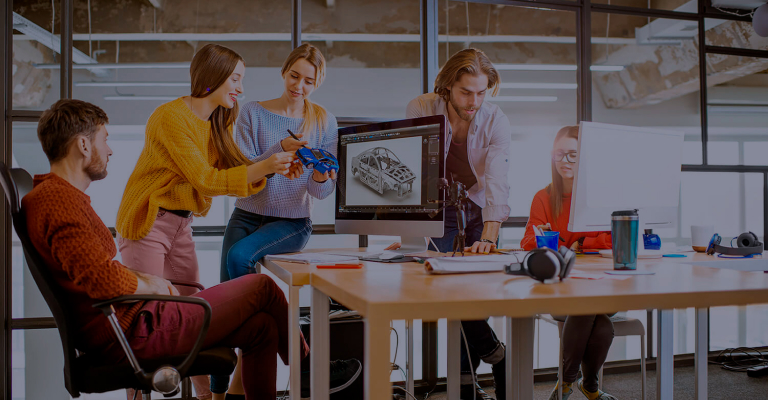
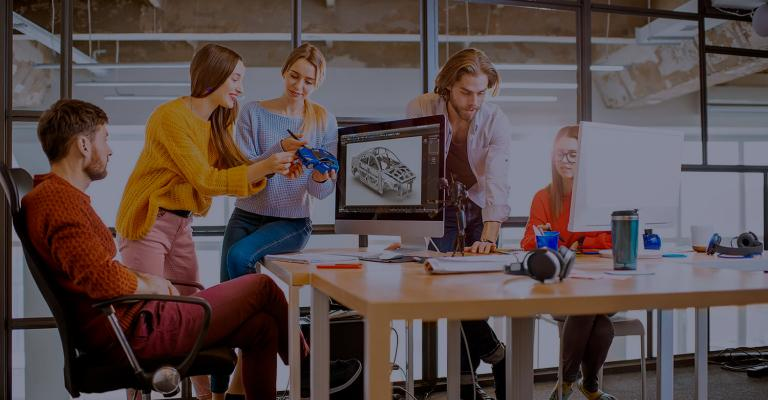
Добавляет изображения секции Команда

diff --git a/css/main.min.css b/css/main.min.css
@@ -1,2 +1,2 @@
-body{font-family:'Roboto', sans-serif;color:#757575}ul{margin:0;padding:0;list-style:none}h1,h2,h3,h4,h5,h6,p{margin:0}a{display:block}img{display:block;max-width:100%;height:auto}.container{margin:0 auto;padding:0 15px}@media screen and (min-width: 480px){.container{width:480px}}@media screen and (min-width: 768px){.container{width:768px}}@media screen and (min-width: 1200px){.container{width:1200px}}.section{padding:60px 0}@media screen and (min-width: 1200px){.section{padding:94px 0}}.visually-hidden{position:absolute;width:1px;height:1px;margin:-1px;padding:0;overflow:hidden;border:0;clip:rect(0 0 0 0)}.main-nav__wrapper,.main-nav__button,.features-list__icon,.social-list__link,.clients-list__link,.footer-form__btn,.close-btn,.modal-form__accept,.modal-form__check-icon{display:flex;align-items:center}.page-header{border-bottom:1px solid #ececec;background-color:#ffffff}.main-nav__wrapper{justify-content:space-between}.main-nav__button{padding:0;border:none;background-color:transparent;cursor:pointer}.nav-list{display:none}.logo{padding:16px 0;color:#000000;font-family:'Raleway', sans-serif;font-size:24px;line-height:1.17;letter-spacing:.03em;font-weight:700;text-decoration:none}.logo__label{color:#2196f3}.contacts{display:none}.hero{margin:0 auto;padding:118px 0;background-color:#2f303a;background-image:linear-gradient(rgba(47,48,58,0.4), rgba(47,48,58,0.4)),url("/images/hero-bg.jpg");background-size:cover;background-repeat:no-repeat;background-position:center;text-align:center}@media screen and (min-width: 1200px){.hero{max-width:1600px;min-height:600px;padding:200px 0}}@media screen and (min-width: 480px){.hero__container{padding:0 60px}}@media screen and (min-width: 768px){.hero__container{width:360px;padding:0}}@media screen and (min-width: 1200px){.hero__container{width:696px}}.hero__title{margin-bottom:30px;color:#ffffff;font-size:26px;line-height:1.62;letter-spacing:.06em;font-weight:900;text-transform:uppercase}@media screen and (min-width: 1200px){.hero__title{font-size:44px;line-height:1.36}}.btn{min-width:200px;min-height:50px;padding:10px;border-radius:4px;border:none;background-color:#2196f3;color:#ffffff;font-size:16px;line-height:1.87;letter-spacing:.06em;font-weight:700;cursor:pointer;box-shadow:0px 4px 4px rgba(0,0,0,0.15);transition:background-color 250ms cubic-bezier(0.4, 0, 0.2, 1)}.btn:hover,.btn:focus{background-color:#188ce8}@media screen and (min-width: 768px){.features-list{display:flex;flex-wrap:wrap;margin:-15px}}@media screen and (min-width: 1200px){.features-list{flex-wrap:nowrap}}@media screen and (max-width: 767px){.features-list__item:not(:last-child){margin-bottom:30px}}@media screen and (min-width: 768px){.features-list__item{flex-basis:calc((100% - 60px) / 2);margin:15px}}@media screen and (min-width: 1200px){.features-list__item{flex-basis:calc((100% - 90px) / 4)}}.features-list__icon{justify-content:center;height:120px;margin-bottom:30px;border-radius:4px;background-color:#f5f4fa}.features-list__label{margin-bottom:10px;color:#212121;font-size:14px;line-height:1.14;letter-spacing:.03em;font-weight:700;text-align:center;text-transform:uppercase}@media screen and (min-width: 768px){.features-list__label{text-align:left}}.features-list__text{font-size:14px;line-height:1.71;letter-spacing:.03em;font-weight:400}.about{padding-top:0}@media screen and (max-width: 1199px){.about{display:none}}.about__title{margin-bottom:50px;color:#212121;font-size:36px;line-height:1.17;letter-spacing:.03em;font-weight:700;text-align:center}.about-list{display:flex;justify-content:space-between}.about-list__item{position:relative}.about-list__image{display:block}.about-list__desc{position:absolute;bottom:0;width:100%;padding:27px 0;color:#ffffff;background-color:rgba(47,48,58,0.8);font-size:14px;line-height:1.14;letter-spacing:.03em;font-weight:700;text-align:center;text-transform:uppercase}.team{background-color:#f5f4fa;text-align:center}.team__title,.clients__title{margin-bottom:30px;color:#212121;font-size:28px;line-height:1.18;letter-spacing:.03em;font-weight:700}@media screen and (min-width: 1200px){.team__title,.clients__title{margin-bottom:50px;font-size:36px;line-height:1.17}}@media screen and (min-width: 768px){.team-list{display:flex;flex-wrap:wrap;margin:-15px}}@media screen and (min-width: 1200px){.team-list{flex-wrap:nowrap}}.team-list__item{margin-bottom:30px;padding-bottom:24px;border-radius:0 0 4px 4px;box-shadow:0px 1px 3px rgba(0,0,0,0.12),0px 1px 1px rgba(0,0,0,0.14),0px 2px 1px rgba(0,0,0,0.2);background-color:#ffffff}@media screen and (max-width: 767px){.team-list__item:last-child{margin-bottom:0}}@media screen and (min-width: 768px){.team-list__item{flex-basis:calc((100% - 60px) / 2);margin:15px}}@media screen and (min-width: 1200px){.team-list__item{flex-basis:calc((100% - 90px) / 4);padding-bottom:30px}}.team-list__photo{margin-bottom:30px;width:100%}.team-list__name{margin-bottom:10px;color:#212121;font-size:16px;line-height:1.19;letter-spacing:.03em;font-weight:500}.team-list__post{margin-bottom:16px;font-size:16px;line-height:1.19;letter-spacing:.03em;font-weight:400}.social-list{display:flex;justify-content:center}.social-list__item{width:44px;height:44px}.social-list__item+.social-list__item{margin-left:10px}.social-list__link{justify-content:center;width:100%;height:100%;border-radius:50%;fill:#afb1b8;transition:background-color 250ms cubic-bezier(0.4, 0, 0.2, 1)}.social-list__link:hover,.social-list__link:focus{background-color:#2196f3}.social-list__link--white{background-color:rgba(255,255,255,0.1);fill:#ffffff}.social-list__icon{transition:fill 250ms cubic-bezier(0.4, 0, 0.2, 1)}.social-list__link:hover .social-list__icon,.social-list__link:focus .social-list__icon{fill:#ffffff}.clients{text-align:center}.clients-list{display:flex;flex-wrap:wrap;margin:-15px}@media screen and (min-width: 1200px){.clients-list{flex-wrap:nowrap}}.clients-list__item{flex-basis:calc((100% - 60px) / 2);margin:15px}@media screen and (min-width: 768px){.clients-list__item{flex-basis:calc((100% - 90px) / 3)}}.clients-list__link{justify-content:center;padding:15px 0;border:1px solid #afb1b8;border-radius:4px;transition:border-color 250ms cubic-bezier(0.4, 0, 0.2, 1)}.clients-list__link:hover,.clients-list__link:focus{border-color:#2196f3}.clients-list__icon{fill:#afb1b8;transition:fill 250ms cubic-bezier(0.4, 0, 0.2, 1)}.clients-list__link:hover .clients-list__icon,.clients-list__link:focus .clients-list__icon{fill:#2196f3}.page-footer{padding:60px 0;background-color:#2f303a;text-align:center}.page-footer__left{margin-bottom:60px}.page-footer__logo{margin-bottom:20px;color:#ffffff}.footer-contacts__item:not(:last-child){margin-bottom:8px}.footer-contacts__link{color:rgba(255,255,255,0.6);font-style:normal;font-size:14px;line-height:1.71;letter-spacing:.03em;font-weight:400;text-decoration:none;transition:color 250ms cubic-bezier(0.4, 0, 0.2, 1)}.footer-contacts__link--white{color:#ffffff}.footer-contacts__link:hover,.footer-contacts__link:focus{color:#2196f3}.footer-social{margin-bottom:60px}.footer-social__text{display:inline-block;margin-bottom:20px;color:#ffffff;font-size:14px;line-height:1.14;letter-spacing:.03em;font-weight:700;text-transform:uppercase}.footer-form__label{display:inline-block;margin-bottom:20px;color:#ffffff;font-size:14px;line-height:1.14;letter-spacing:.03em;font-weight:700;text-transform:uppercase}.footer-form__input{width:100%;height:50px;margin-bottom:20px;padding:15px;border:1px solid rgba(255,255,255,0.3);border-radius:4px;background-color:transparent;color:#ffffff}.footer-form__input::placeholder{color:rgba(255,255,255,0.6);font-size:16px;line-height:1.25;letter-spacing:.03em;font-weight:400}.footer-form__btn{justify-content:center;min-width:200px;min-height:50px;margin:0 auto;padding:10px;border:none;border-radius:4px;color:#ffffff;background-color:#2196f3;font-size:16px;line-height:1.87;letter-spacing:.06em;font-weight:700;cursor:pointer}.footer-form__icon{margin-left:10px;fill:#ffffff}.filter-list{display:flex;flex-wrap:wrap;margin-bottom:40px}.filter-list__item:not(:last-child){margin-right:8px}.filter-list__item:nth-child(-n+3){margin-bottom:15px}.filter-list__btn{padding:6px 22px;border-radius:4px;border:none;color:#212121;background-color:#f5f4fa;font-family:inherit;font-size:16px;line-height:1.62;letter-spacing:.03em;font-weight:500;cursor:pointer;transition:color 250ms cubic-bezier(0.4, 0, 0.2, 1),background-color 250ms cubic-bezier(0.4, 0, 0.2, 1),box-shadow 250ms cubic-bezier(0.4, 0, 0.2, 1)}.filter-list__btn:hover,.filter-list__btn:focus{box-shadow:0px 3px 1px rgba(0,0,0,0.1),0px 1px 2px rgba(0,0,0,0.08),0px 2px 2px rgba(0,0,0,0.12);color:#ffffff;background-color:#2196f3}.portfolio-list__item:not(:last-child){margin-bottom:30px}.portfolio-list__link{color:inherit;text-decoration:none;transition:box-shadow 250ms cubic-bezier(0.4, 0, 0.2, 1)}.portfolio-list__link:hover,.portfolio-list__link:focus{box-shadow:0px 1px 1px rgba(0,0,0,0.12),0px 4px 4px rgba(0,0,0,0.06),1px 4px 6px rgba(0,0,0,0.16)}.portfolio-list__overlay{position:relative;max-width:450px;max-height:294px;overflow:hidden}.portfolio-list__image{width:100%;height:100%;object-fit:cover}.portfolio-list__text{position:absolute;top:100%;padding:77px 24px;color:#ffffff;background-color:rgba(33,150,243,0.9);font-size:18px;line-height:1.56;letter-spacing:.03em;font-weight:400;transform:translateY(0);transition:transform 250ms cubic-bezier(0.4, 0, 0.2, 1)}.portfolio-list__link:hover .portfolio-list__text,.portfolio-list__link:focus .portfolio-list__text{transform:translateY(-100%)}.portfolio-list__desc{padding:20px 24px;border:1px solid #eeeeee;border-top:none}.portfolio-list__title{margin-bottom:4px;color:#212121;font-size:18px;line-height:2;letter-spacing:.06em;font-weight:700}.portfolio-list__subtitle{font-size:16px;line-height:1.87;letter-spacing:.03em;font-weight:400}.backdrop{position:fixed;top:0;width:100%;height:100%;background-color:rgba(0,0,0,0.2);transition:opacity 250ms cubic-bezier(0.4, 0, 0.2, 1),visibility 250ms cubic-bezier(0.4, 0, 0.2, 1)}.backdrop.is-hidden{visibility:hidden;opacity:0;pointer-events:none}.backdrop.is-hidden .modal{transform:translate(-50%, -50%) scale(2)}.modal{position:absolute;top:50%;left:50%;width:528px;min-height:581px;padding:40px;transform:translate(-50%, -50%) scale(1);transition:transform 250ms cubic-bezier(0.4, 0, 0.2, 1);background-color:#ffffff}.close-btn{position:absolute;top:8px;right:8px;justify-content:center;width:30px;height:30px;border:1px solid rgba(0,0,0,0.1);border-radius:50%;background-color:transparent;cursor:pointer}.close-btn__icon{transition:fill 250ms cubic-bezier(0.4, 0, 0.2, 1)}.close-btn:hover .close-btn__icon,.close-btn:focus .close-btn__icon{fill:#2196f3}.modal-form{text-align:center}.modal-form__title{margin-bottom:12px;color:#212121;font-size:20px;line-height:1.15;letter-spacing:.03em;font-weight:700}.modal-form__label{display:block;margin-bottom:4px;font-size:12px;line-height:1.17;letter-spacing:.01em;font-weight:400;text-align:left}.modal-form__wrapper{position:relative;margin-bottom:10px}.modal-form__input{width:100%;height:40px;padding-left:42px;padding-right:20px;border:1px solid rgba(33,33,33,0.2);border-radius:4px;outline:none;transition:border-color 250ms cubic-bezier(0.4, 0, 0.2, 1)}.modal-form__input:focus{border-color:#2196f3}.modal-form__input:focus+.modal-form__icon{fill:#2196f3}.modal-form__icon{position:absolute;top:50%;left:12px;transform:translateY(-50%);transition:fill 250ms cubic-bezier(0.4, 0, 0.2, 1);fill:#212121}.modal-form__comment{width:100%;height:120px;padding:12px 16px;margin-bottom:20px;border:1px solid rgba(33,33,33,0.2);border-radius:4px;outline:none;resize:none;transition:border-color 250ms cubic-bezier(0.4, 0, 0.2, 1)}.modal-form__comment::placeholder{color:rgba(117,117,117,0.5);font-size:12px;line-height:1.17;letter-spacing:0.01em}.modal-form__comment:focus{border-color:#2196f3}.modal-form__checkbox:focus+.modal-form__accept .modal-form__check-icon{outline:1px solid #212121}.modal-form__checkbox:checked+.modal-form__accept .modal-form__check-icon{border:none;background-color:#2196f3}.modal-form__accept{justify-content:center;font-size:14px;line-height:1.71;letter-spacing:.03em;font-weight:400;cursor:pointer}.modal-form__check-icon{justify-content:center;width:16px;height:15px;margin-right:7px;border:2px solid #212121;border-radius:2px;transition:background-color 250ms cubic-bezier(0.4, 0, 0.2, 1)}.modal-form__link{margin-left:3px;color:#2196f3;text-decoration:underline}.modal-form__btn{margin-top:30px;box-shadow:0px 4px 4px rgba(0,0,0,0.15);transition:background-color 250ms cubic-bezier(0.4, 0, 0.2, 1)}.modal-form__btn:hover,.modal-form__btn:focus{background-color:#188ce8}
+body{font-family:'Roboto', sans-serif;color:#757575}ul{margin:0;padding:0;list-style:none}h1,h2,h3,h4,h5,h6,p{margin:0}a{display:block}img{display:block;max-width:100%;height:auto}.container{margin:0 auto;padding:0 15px}@media screen and (min-width: 480px){.container{width:480px}}@media screen and (min-width: 768px){.container{width:768px}}@media screen and (min-width: 1200px){.container{width:1200px}}.section{padding:60px 0}@media screen and (min-width: 1200px){.section{padding:94px 0}}.visually-hidden{position:absolute;width:1px;height:1px;margin:-1px;padding:0;overflow:hidden;border:0;clip:rect(0 0 0 0)}.main-nav__wrapper,.main-nav__button,.features-list__icon,.social-list__link,.clients-list__link,.footer-form__btn,.close-btn,.modal-form__accept,.modal-form__check-icon{display:flex;align-items:center}.page-header{border-bottom:1px solid #ececec;background-color:#ffffff}.main-nav__wrapper{justify-content:space-between}.main-nav__button{padding:0;border:none;background-color:transparent;cursor:pointer}.nav-list{display:none}.logo{padding:16px 0;color:#000000;font-family:'Raleway', sans-serif;font-size:24px;line-height:1.17;letter-spacing:.03em;font-weight:700;text-decoration:none}.logo__label{color:#2196f3}.contacts{display:none}.hero{padding:118px 0;background-color:#2f303a;background-image:linear-gradient(rgba(47,48,58,0.4), rgba(47,48,58,0.4)),url("/images/hero-bg-480.jpg");background-size:cover;background-position:center;text-align:center}@media screen and (min-device-pixel-ratio: 2), screen and (min-resolution: 192dpi), screen and (min-resolution: 2dppx){.hero{background-image:linear-gradient(rgba(47,48,58,0.4), rgba(47,48,58,0.4)),url("/images/hero-bg-480@2x.jpg")}}@media screen and (min-width: 481px){.hero{background-image:linear-gradient(rgba(47,48,58,0.4), rgba(47,48,58,0.4)),url("/images/hero-bg-768.jpg")}}@media screen and (min-width: 481px) and (min-device-pixel-ratio: 2), screen and (min-width: 481px) and (min-resolution: 192dpi), screen and (min-width: 481px) and (min-resolution: 2dppx){.hero{background-image:linear-gradient(rgba(47,48,58,0.4), rgba(47,48,58,0.4)),url("/images/hero-bg-768@2x.jpg")}}@media screen and (min-width: 769px){.hero{background-image:linear-gradient(rgba(47,48,58,0.4), rgba(47,48,58,0.4)),url("/images/hero-bg-1200.jpg")}}@media screen and (min-width: 769px) and (min-device-pixel-ratio: 2), screen and (min-width: 769px) and (min-resolution: 192dpi), screen and (min-width: 769px) and (min-resolution: 2dppx){.hero{background-image:linear-gradient(rgba(47,48,58,0.4), rgba(47,48,58,0.4)),url("/images/hero-bg-1200@2x.jpg")}}@media screen and (min-width: 1200px){.hero{max-width:1600px;margin:0 auto;padding:200px 0}}@media screen and (min-width: 480px){.hero__container{padding:0 60px}}@media screen and (min-width: 768px){.hero__container{width:360px;padding:0}}@media screen and (min-width: 1200px){.hero__container{width:696px}}.hero__title{margin-bottom:30px;color:#ffffff;font-size:26px;line-height:1.62;letter-spacing:.06em;font-weight:900;text-transform:uppercase}@media screen and (min-width: 1200px){.hero__title{font-size:44px;line-height:1.36}}.btn{min-width:200px;min-height:50px;padding:10px;border-radius:4px;border:none;background-color:#2196f3;color:#ffffff;font-size:16px;line-height:1.87;letter-spacing:.06em;font-weight:700;cursor:pointer;box-shadow:0px 4px 4px rgba(0,0,0,0.15);transition:background-color 250ms cubic-bezier(0.4, 0, 0.2, 1)}.btn:hover,.btn:focus{background-color:#188ce8}@media screen and (min-width: 768px){.features-list{display:flex;flex-wrap:wrap;margin:-15px}}@media screen and (min-width: 1200px){.features-list{flex-wrap:nowrap}}@media screen and (max-width: 767px){.features-list__item:not(:last-child){margin-bottom:30px}}@media screen and (min-width: 768px){.features-list__item{flex-basis:calc((100% - 60px) / 2);margin:15px}}@media screen and (min-width: 1200px){.features-list__item{flex-basis:calc((100% - 90px) / 4)}}.features-list__icon{justify-content:center;height:120px;margin-bottom:30px;border-radius:4px;background-color:#f5f4fa}.features-list__label{margin-bottom:10px;color:#212121;font-size:14px;line-height:1.14;letter-spacing:.03em;font-weight:700;text-align:center;text-transform:uppercase}@media screen and (min-width: 768px){.features-list__label{text-align:left}}.features-list__text{font-size:14px;line-height:1.71;letter-spacing:.03em;font-weight:400}.about{padding-top:0}@media screen and (max-width: 1199px){.about{display:none}}.about__title{margin-bottom:50px;color:#212121;font-size:36px;line-height:1.17;letter-spacing:.03em;font-weight:700;text-align:center}.about-list{display:flex;justify-content:space-between}.about-list__item{position:relative}.about-list__image{display:block}.about-list__desc{position:absolute;bottom:0;width:100%;padding:27px 0;color:#ffffff;background-color:rgba(47,48,58,0.8);font-size:14px;line-height:1.14;letter-spacing:.03em;font-weight:700;text-align:center;text-transform:uppercase}.team{background-color:#f5f4fa;text-align:center}.team__title,.clients__title{margin-bottom:30px;color:#212121;font-size:28px;line-height:1.18;letter-spacing:.03em;font-weight:700}@media screen and (min-width: 1200px){.team__title,.clients__title{margin-bottom:50px;font-size:36px;line-height:1.17}}@media screen and (min-width: 768px){.team-list{display:flex;flex-wrap:wrap;margin:-15px}}@media screen and (min-width: 1200px){.team-list{flex-wrap:nowrap}}.team-list__item{margin-bottom:30px;padding-bottom:24px;border-radius:0 0 4px 4px;box-shadow:0px 1px 3px rgba(0,0,0,0.12),0px 1px 1px rgba(0,0,0,0.14),0px 2px 1px rgba(0,0,0,0.2);background-color:#ffffff}@media screen and (max-width: 767px){.team-list__item:last-child{margin-bottom:0}}@media screen and (min-width: 768px){.team-list__item{flex-basis:calc((100% - 60px) / 2);margin:15px}}@media screen and (min-width: 1200px){.team-list__item{flex-basis:calc((100% - 90px) / 4);padding-bottom:30px}}.team-list__photo{margin-bottom:30px}.team-list__name{margin-bottom:10px;color:#212121;font-size:16px;line-height:1.19;letter-spacing:.03em;font-weight:500}.team-list__post{margin-bottom:16px;font-size:16px;line-height:1.19;letter-spacing:.03em;font-weight:400}.social-list{display:flex;justify-content:center}.social-list__item{width:44px;height:44px}.social-list__item+.social-list__item{margin-left:10px}.social-list__link{justify-content:center;width:100%;height:100%;border-radius:50%;fill:#afb1b8;transition:background-color 250ms cubic-bezier(0.4, 0, 0.2, 1)}.social-list__link:hover,.social-list__link:focus{background-color:#2196f3}.social-list__link--white{background-color:rgba(255,255,255,0.1);fill:#ffffff}.social-list__icon{transition:fill 250ms cubic-bezier(0.4, 0, 0.2, 1)}.social-list__link:hover .social-list__icon,.social-list__link:focus .social-list__icon{fill:#ffffff}.clients{text-align:center}.clients-list{display:flex;flex-wrap:wrap;margin:-15px}@media screen and (min-width: 1200px){.clients-list{flex-wrap:nowrap}}.clients-list__item{flex-basis:calc((100% - 60px) / 2);margin:15px}@media screen and (min-width: 768px){.clients-list__item{flex-basis:calc((100% - 90px) / 3)}}.clients-list__link{justify-content:center;padding:15px 0;border:1px solid #afb1b8;border-radius:4px;transition:border-color 250ms cubic-bezier(0.4, 0, 0.2, 1)}.clients-list__link:hover,.clients-list__link:focus{border-color:#2196f3}.clients-list__icon{fill:#afb1b8;transition:fill 250ms cubic-bezier(0.4, 0, 0.2, 1)}.clients-list__link:hover .clients-list__icon,.clients-list__link:focus .clients-list__icon{fill:#2196f3}.page-footer{padding:60px 0;background-color:#2f303a;text-align:center}.page-footer__left{margin-bottom:60px}.page-footer__logo{margin-bottom:20px;color:#ffffff}.footer-contacts__item:not(:last-child){margin-bottom:8px}.footer-contacts__link{color:rgba(255,255,255,0.6);font-style:normal;font-size:14px;line-height:1.71;letter-spacing:.03em;font-weight:400;text-decoration:none;transition:color 250ms cubic-bezier(0.4, 0, 0.2, 1)}.footer-contacts__link--white{color:#ffffff}.footer-contacts__link:hover,.footer-contacts__link:focus{color:#2196f3}.footer-social{margin-bottom:60px}.footer-social__text{display:inline-block;margin-bottom:20px;color:#ffffff;font-size:14px;line-height:1.14;letter-spacing:.03em;font-weight:700;text-transform:uppercase}.footer-form__label{display:inline-block;margin-bottom:20px;color:#ffffff;font-size:14px;line-height:1.14;letter-spacing:.03em;font-weight:700;text-transform:uppercase}.footer-form__input{width:100%;height:50px;margin-bottom:20px;padding:15px;border:1px solid rgba(255,255,255,0.3);border-radius:4px;background-color:transparent;color:#ffffff}.footer-form__input::placeholder{color:rgba(255,255,255,0.6);font-size:16px;line-height:1.25;letter-spacing:.03em;font-weight:400}.footer-form__btn{justify-content:center;min-width:200px;min-height:50px;margin:0 auto;padding:10px;border:none;border-radius:4px;color:#ffffff;background-color:#2196f3;font-size:16px;line-height:1.87;letter-spacing:.06em;font-weight:700;cursor:pointer}.footer-form__icon{margin-left:10px;fill:#ffffff}.filter-list{display:flex;flex-wrap:wrap;margin-bottom:40px}.filter-list__item:not(:last-child){margin-right:8px}.filter-list__item:nth-child(-n+3){margin-bottom:15px}.filter-list__btn{padding:6px 22px;border-radius:4px;border:none;color:#212121;background-color:#f5f4fa;font-family:inherit;font-size:16px;line-height:1.62;letter-spacing:.03em;font-weight:500;cursor:pointer;transition:color 250ms cubic-bezier(0.4, 0, 0.2, 1),background-color 250ms cubic-bezier(0.4, 0, 0.2, 1),box-shadow 250ms cubic-bezier(0.4, 0, 0.2, 1)}.filter-list__btn:hover,.filter-list__btn:focus{box-shadow:0px 3px 1px rgba(0,0,0,0.1),0px 1px 2px rgba(0,0,0,0.08),0px 2px 2px rgba(0,0,0,0.12);color:#ffffff;background-color:#2196f3}.portfolio-list__item:not(:last-child){margin-bottom:30px}.portfolio-list__link{color:inherit;text-decoration:none;transition:box-shadow 250ms cubic-bezier(0.4, 0, 0.2, 1)}.portfolio-list__link:hover,.portfolio-list__link:focus{box-shadow:0px 1px 1px rgba(0,0,0,0.12),0px 4px 4px rgba(0,0,0,0.06),1px 4px 6px rgba(0,0,0,0.16)}.portfolio-list__overlay{position:relative;max-width:450px;max-height:294px;overflow:hidden}.portfolio-list__image{width:100%;height:100%;object-fit:cover}.portfolio-list__text{position:absolute;top:100%;padding:77px 24px;color:#ffffff;background-color:rgba(33,150,243,0.9);font-size:18px;line-height:1.56;letter-spacing:.03em;font-weight:400;transform:translateY(0);transition:transform 250ms cubic-bezier(0.4, 0, 0.2, 1)}.portfolio-list__link:hover .portfolio-list__text,.portfolio-list__link:focus .portfolio-list__text{transform:translateY(-100%)}.portfolio-list__desc{padding:20px 24px;border:1px solid #eeeeee;border-top:none}.portfolio-list__title{margin-bottom:4px;color:#212121;font-size:18px;line-height:2;letter-spacing:.06em;font-weight:700}.portfolio-list__subtitle{font-size:16px;line-height:1.87;letter-spacing:.03em;font-weight:400}.backdrop{position:fixed;top:0;width:100%;height:100%;background-color:rgba(0,0,0,0.2);transition:opacity 250ms cubic-bezier(0.4, 0, 0.2, 1),visibility 250ms cubic-bezier(0.4, 0, 0.2, 1)}.backdrop.is-hidden{visibility:hidden;opacity:0;pointer-events:none}.backdrop.is-hidden .modal{transform:translate(-50%, -50%) scale(2)}.modal{position:absolute;top:50%;left:50%;width:528px;min-height:581px;padding:40px;transform:translate(-50%, -50%) scale(1);transition:transform 250ms cubic-bezier(0.4, 0, 0.2, 1);background-color:#ffffff}.close-btn{position:absolute;top:8px;right:8px;justify-content:center;width:30px;height:30px;border:1px solid rgba(0,0,0,0.1);border-radius:50%;background-color:transparent;cursor:pointer}.close-btn__icon{transition:fill 250ms cubic-bezier(0.4, 0, 0.2, 1)}.close-btn:hover .close-btn__icon,.close-btn:focus .close-btn__icon{fill:#2196f3}.modal-form{text-align:center}.modal-form__title{margin-bottom:12px;color:#212121;font-size:20px;line-height:1.15;letter-spacing:.03em;font-weight:700}.modal-form__label{display:block;margin-bottom:4px;font-size:12px;line-height:1.17;letter-spacing:.01em;font-weight:400;text-align:left}.modal-form__wrapper{position:relative;margin-bottom:10px}.modal-form__input{width:100%;height:40px;padding-left:42px;padding-right:20px;border:1px solid rgba(33,33,33,0.2);border-radius:4px;outline:none;transition:border-color 250ms cubic-bezier(0.4, 0, 0.2, 1)}.modal-form__input:focus{border-color:#2196f3}.modal-form__input:focus+.modal-form__icon{fill:#2196f3}.modal-form__icon{position:absolute;top:50%;left:12px;transform:translateY(-50%);transition:fill 250ms cubic-bezier(0.4, 0, 0.2, 1);fill:#212121}.modal-form__comment{width:100%;height:120px;padding:12px 16px;margin-bottom:20px;border:1px solid rgba(33,33,33,0.2);border-radius:4px;outline:none;resize:none;transition:border-color 250ms cubic-bezier(0.4, 0, 0.2, 1)}.modal-form__comment::placeholder{color:rgba(117,117,117,0.5);font-size:12px;line-height:1.17;letter-spacing:0.01em}.modal-form__comment:focus{border-color:#2196f3}.modal-form__checkbox:focus+.modal-form__accept .modal-form__check-icon{outline:1px solid #212121}.modal-form__checkbox:checked+.modal-form__accept .modal-form__check-icon{border:none;background-color:#2196f3}.modal-form__accept{justify-content:center;font-size:14px;line-height:1.71;letter-spacing:.03em;font-weight:400;cursor:pointer}.modal-form__check-icon{justify-content:center;width:16px;height:15px;margin-right:7px;border:2px solid #212121;border-radius:2px;transition:background-color 250ms cubic-bezier(0.4, 0, 0.2, 1)}.modal-form__link{margin-left:3px;color:#2196f3;text-decoration:underline}.modal-form__btn{margin-top:30px;box-shadow:0px 4px 4px rgba(0,0,0,0.15);transition:background-color 250ms cubic-bezier(0.4, 0, 0.2, 1)}.modal-form__btn:hover,.modal-form__btn:focus{background-color:#188ce8}
 /*# sourceMappingURL=main.min.css.map */

diff --git a/index.html b/index.html
@@ -178,12 +178,26 @@
 
           <ul class="team-list">
             <li class="team-list__item">
-              <img
-                class="team-list__photo"
-                src="./images/igor-demianenko.jpg"
-                alt="Фотография Игоря Демьяненка"
-                width="270"
-              />
+              <picture>
+                <source
+                  srcset="./images/team_1-mobile.jpg 1x, ./images/team_1-mobile@2x.jpg 2x"
+                  media="(max-width: 767px)"
+                />
+                <source
+                  srcset="./images/team_1-tablet.jpg 1x, ./images/team_1-tablet@2x.jpg 2x"
+                  media="(max-width: 1199px)"
+                />
+                <source
+                  srcset="./images/team_1-desktop.jpg 1x, ./images/team_1-desktop@2x.jpg 2x"
+                  media="(min-width: 1200px)"
+                />
+                <img
+                  class="team-list__photo"
+                  src="./images/team_1-mobile.jpg"
+                  alt="Фотография Игоря Демьяненка"
+                />
+              </picture>
+
               <h3 class="team-list__name">Игорь Демьяненко</h3>
               <p class="team-list__post" lang="en">Product Designer</p>
 
@@ -220,12 +234,26 @@
             </li>
 
             <li class="team-list__item">
-              <img
-                class="team-list__photo"
-                src="./images/olga-repina.jpg"
-                alt="Фотография Ольги Репиной"
-                width="270"
-              />
+              <picture>
+                <source
+                  srcset="./images/team_2-mobile.jpg 1x, ./images/team_2-mobile@2x.jpg 2x"
+                  media="(max-width: 767px)"
+                />
+                <source
+                  srcset="./images/team_2-tablet.jpg 1x, ./images/team_2-tablet@2x.jpg 2x"
+                  media="(max-width: 1199px)"
+                />
+                <source
+                  srcset="./images/team_2-desktop.jpg 1x, ./images/team_2-desktop@2x.jpg 2x"
+                  media="(min-width: 1200px)"
+                />
+                <img
+                  class="team-list__photo"
+                  src="./images/team_2-mobile.jpg"
+                  alt="Фотография Ольги Репиной"
+                />
+              </picture>
+
               <h3 class="team-list__name">Ольга Репина</h3>
               <p class="team-list__post" lang="en">Frontend Developer</p>
 
@@ -262,12 +290,26 @@
             </li>
 
             <li class="team-list__item">
-              <img
-                class="team-list__photo"
-                src="./images/nikolay-tarasov.jpg"
-                alt="Фотография Николая Тарасова"
-                width="270"
-              />
+              <picture>
+                <source
+                  srcset="./images/team_3-mobile.jpg 1x, ./images/team_3-mobile@2x.jpg 2x"
+                  media="(max-width: 767px)"
+                />
+                <source
+                  srcset="./images/team_3-tablet.jpg 1x, ./images/team_3-tablet@2x.jpg 2x"
+                  media="(max-width: 1199px)"
+                />
+                <source
+                  srcset="./images/team_3-desktop.jpg 1x, ./images/team_3-desktop@2x.jpg 2x"
+                  media="(min-width: 1200px)"
+                />
+                <img
+                  class="team-list__photo"
+                  src="./images/team_3-mobile.jpg"
+                  alt="Фотография Николая Тарасова"
+                />
+              </picture>
+
               <h3 class="team-list__name">Николай Тарасов</h3>
               <p class="team-list__post" lang="en">Marketing</p>
 
@@ -304,12 +346,26 @@
             </li>
 
             <li class="team-list__item">
-              <img
-                class="team-list__photo"
-                src="./images/mikhail-ermakov.jpg"
-                alt="Фотография Михаила Ермакова"
-                width="270"
-              />
+              <picture>
+                <source
+                  srcset="./images/team_4-mobile.jpg 1x, ./images/team_4-mobile@2x.jpg 2x"
+                  media="(max-width: 767px)"
+                />
+                <source
+                  srcset="./images/team_4-tablet.jpg 1x, ./images/team_4-tablet@2x.jpg 2x"
+                  media="(max-width: 1199px)"
+                />
+                <source
+                  srcset="./images/team_4-desktop.jpg 1x, ./images/team_4-desktop@2x.jpg 2x"
+                  media="(min-width: 1200px)"
+                />
+                <img
+                  class="team-list__photo"
+                  src="./images/team_4-mobile.jpg"
+                  alt="Фотография Михаила Ермакова"
+                />
+              </picture>
+
               <h3 class="team-list__name">Михаил Ермаков</h3>
               <p class="team-list__post" lang="en">UI Designer</p>
 

diff --git a/sass/components/_hero.scss b/sass/components/_hero.scss
@@ -1,28 +1,48 @@
 .hero {
-  margin: 0 auto;
   padding: 118px 0;
 
   background-color: $bgPrimaryColor;
+
   background-image: linear-gradient(rgba(47, 48, 58, 0.4), rgba(47, 48, 58, 0.4)),
-    url('/images/hero-bg.jpg');
+    url('/images/hero-bg-480.jpg');
   background-size: cover;
-  background-repeat: no-repeat;
   background-position: center;
 
   text-align: center;
 
-  // @media screen and (min-width: 768px) {
-  //   background-image: linear-gradient(rgba(47, 48, 58, 0.4), rgba(47, 48, 58, 0.4)),
-  //     url('/images/hero-bg-768.jpg');
-  // }
+  @media screen and (min-device-pixel-ratio: 2),
+    screen and (min-resolution: 192dpi),
+    screen and (min-resolution: 2dppx) {
+    background-image: linear-gradient(rgba(47, 48, 58, 0.4), rgba(47, 48, 58, 0.4)),
+      url('/images/hero-bg-480@2x.jpg');
+  }
+
+  @media screen and (min-width: 481px) {
+    background-image: linear-gradient(rgba(47, 48, 58, 0.4), rgba(47, 48, 58, 0.4)),
+      url('/images/hero-bg-768.jpg');
+    @media screen and (min-device-pixel-ratio: 2),
+      screen and (min-resolution: 192dpi),
+      screen and (min-resolution: 2dppx) {
+      background-image: linear-gradient(rgba(47, 48, 58, 0.4), rgba(47, 48, 58, 0.4)),
+        url('/images/hero-bg-768@2x.jpg');
+    }
+  }
+
+  @media screen and (min-width: 769px) {
+    background-image: linear-gradient(rgba(47, 48, 58, 0.4), rgba(47, 48, 58, 0.4)),
+      url('/images/hero-bg-1200.jpg');
+    @media screen and (min-device-pixel-ratio: 2),
+      screen and (min-resolution: 192dpi),
+      screen and (min-resolution: 2dppx) {
+      background-image: linear-gradient(rgba(47, 48, 58, 0.4), rgba(47, 48, 58, 0.4)),
+        url('/images/hero-bg-1200@2x.jpg');
+    }
+  }
 
   @media screen and (min-width: 1200px) {
     max-width: 1600px;
-    min-height: 600px;
+    margin: 0 auto;
     padding: 200px 0;
-
-    // background-image: linear-gradient(rgba(47, 48, 58, 0.4), rgba(47, 48, 58, 0.4)),
-    //   url('/images/hero-bg.jpg');
   }
 }
 

diff --git a/css/main.css b/css/main.css
@@ -118,20 +118,48 @@ img {
 }
 
 .hero {
-  margin: 0 auto;
   padding: 118px 0;
   background-color: #2f303a;
-  background-image: linear-gradient(rgba(47, 48, 58, 0.4), rgba(47, 48, 58, 0.4)), url("/images/hero-bg.jpg");
+  background-image: linear-gradient(rgba(47, 48, 58, 0.4), rgba(47, 48, 58, 0.4)), url("/images/hero-bg-480.jpg");
   background-size: cover;
-  background-repeat: no-repeat;
   background-position: center;
   text-align: center;
+}
+
+@media screen and (min-device-pixel-ratio: 2), screen and (min-resolution: 192dpi), screen and (min-resolution: 2dppx) {
+  .hero {
+    background-image: linear-gradient(rgba(47, 48, 58, 0.4), rgba(47, 48, 58, 0.4)), url("/images/hero-bg-480@2x.jpg");
+  }
+}
+
+@media screen and (min-width: 481px) {
+  .hero {
+    background-image: linear-gradient(rgba(47, 48, 58, 0.4), rgba(47, 48, 58, 0.4)), url("/images/hero-bg-768.jpg");
+  }
+}
+
+@media screen and (min-width: 481px) and (min-device-pixel-ratio: 2), screen and (min-width: 481px) and (min-resolution: 192dpi), screen and (min-width: 481px) and (min-resolution: 2dppx) {
+  .hero {
+    background-image: linear-gradient(rgba(47, 48, 58, 0.4), rgba(47, 48, 58, 0.4)), url("/images/hero-bg-768@2x.jpg");
+  }
+}
+
+@media screen and (min-width: 769px) {
+  .hero {
+    background-image: linear-gradient(rgba(47, 48, 58, 0.4), rgba(47, 48, 58, 0.4)), url("/images/hero-bg-1200.jpg");
+  }
+}
+
+@media screen and (min-width: 769px) and (min-device-pixel-ratio: 2), screen and (min-width: 769px) and (min-resolution: 192dpi), screen and (min-width: 769px) and (min-resolution: 2dppx) {
+  .hero {
+    background-image: linear-gradient(rgba(47, 48, 58, 0.4), rgba(47, 48, 58, 0.4)), url("/images/hero-bg-1200@2x.jpg");
+  }
 }
 
 @media screen and (min-width: 1200px) {
   .hero {
     max-width: 1600px;
-    min-height: 600px;
+    margin: 0 auto;
     padding: 200px 0;
   }
 }
@@ -374,7 +402,6 @@ img {
 
 .team-list__photo {
   margin-bottom: 30px;
-  width: 100%;
 }
 
 .team-list__name {

diff --git a/sass/components/_team.scss b/sass/components/_team.scss
@@ -60,7 +60,6 @@
 
 .team-list__photo {
   margin-bottom: 30px;
-  width: 100%;
 }
 
 .team-list__name {
